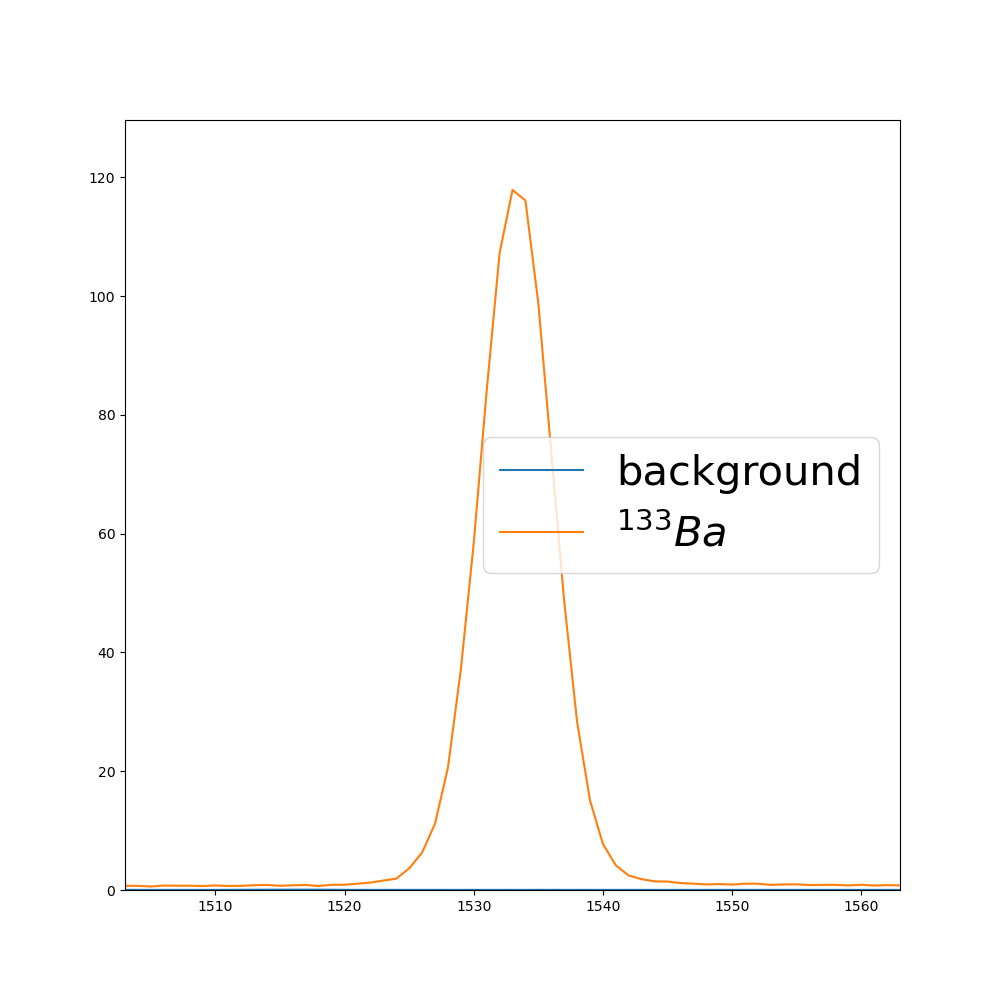
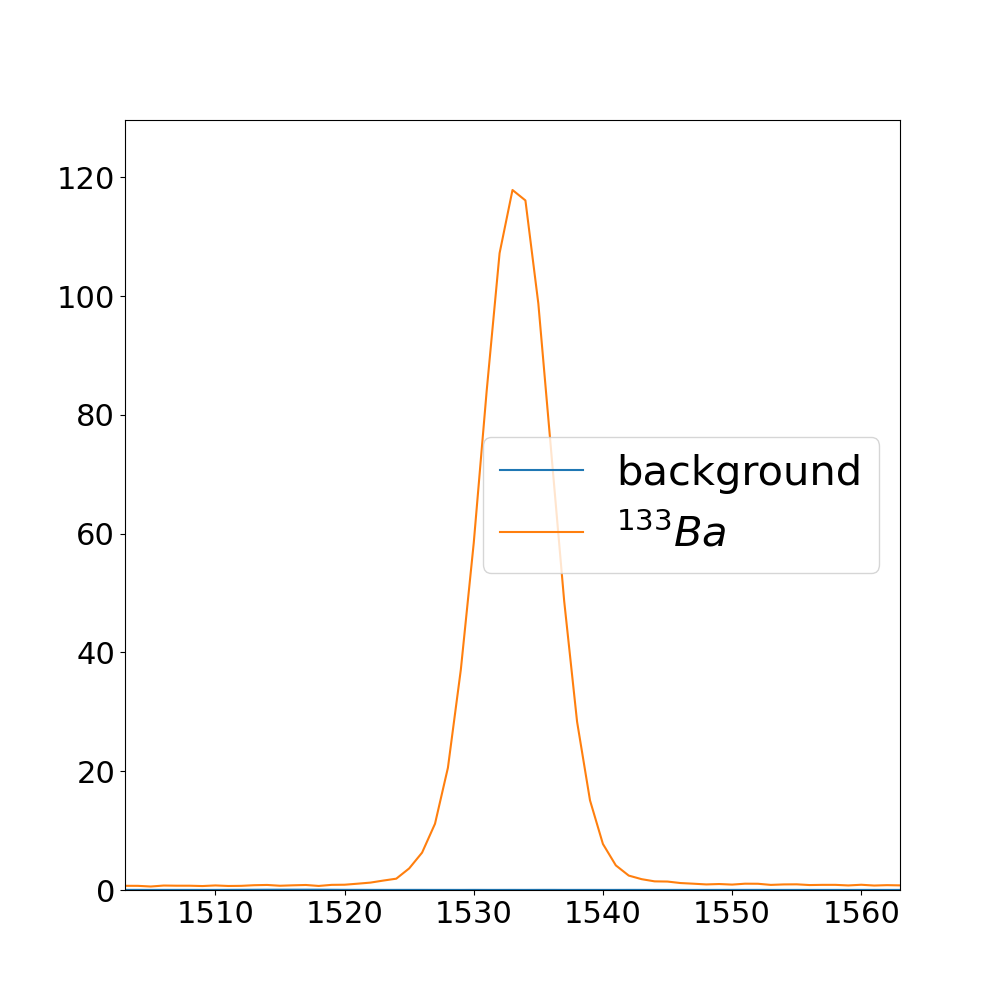
update images, in particular activity calibration

diff --git a/HPGe/activity.py b/HPGe/activity.py
@@ -1,5 +1,6 @@
 """A module for dealing with activity calculations."""
 import matplotlib.pyplot as plt
+import matplotlib.patches as mpatches
 import numpy as np
 from inspect import cleandoc
 
@@ -7,6 +8,8 @@ from read_spe import data, Spectrum
 from energy_calibration import channel_from_energy, energy_from_channel
 from peak_data import known_peaks, Source
 import peaks
+
+plt.rcParams.update({'font.size': 22})
 
 
 def activity(spec: Spectrum, peak_channel, tol, plot=True):
@@ -108,16 +111,24 @@ fit_activities = np.polyval(act_line, activity_x_values)
 y_error = [real_co60_uncert]*2 + [real_ba133_uncert]*5 + [real_na22_uncert]*1
 
 plt.figure(figsize=(15, 15))
-plt.xlabel("calculated activity")
-plt.ylabel("real activity")
-plt.scatter(calc_activities, real_activities)
-plt.plot(activity_x_values, fit_activities)
-
+plt.xlabel("Measured Sum of Bin Counts")
+plt.ylabel("Activity [Bq]")
 plt.errorbar(
     calc_activities, real_activities,
     xerr=calc_act_uncerts, yerr=y_error,
     fmt='o', ecolor='k', color='k')
-plt.savefig("images/activity_calibration.png")
+
+co_patch = mpatches.Patch(color='g', label=data.Co60.label)
+ba_patch = mpatches.Patch(color='b', label=data.Ba133.label)
+na_patch = mpatches.Patch(color='r', label=data.Na22.label)
+colors = ['g']*2 + ['b']*5 + ['r']*1
+plt.plot(activity_x_values, fit_activities)
+plt.scatter(calc_activities, real_activities, s=100,
+            c=colors, marker="o", zorder=100, linewidths=5)
+
+plt.legend(handles=[co_patch, ba_patch, na_patch])
+
+plt.savefig("images/activity_calibration.png", dpi=300)
 plt.cla()
 plt.clf()
 
